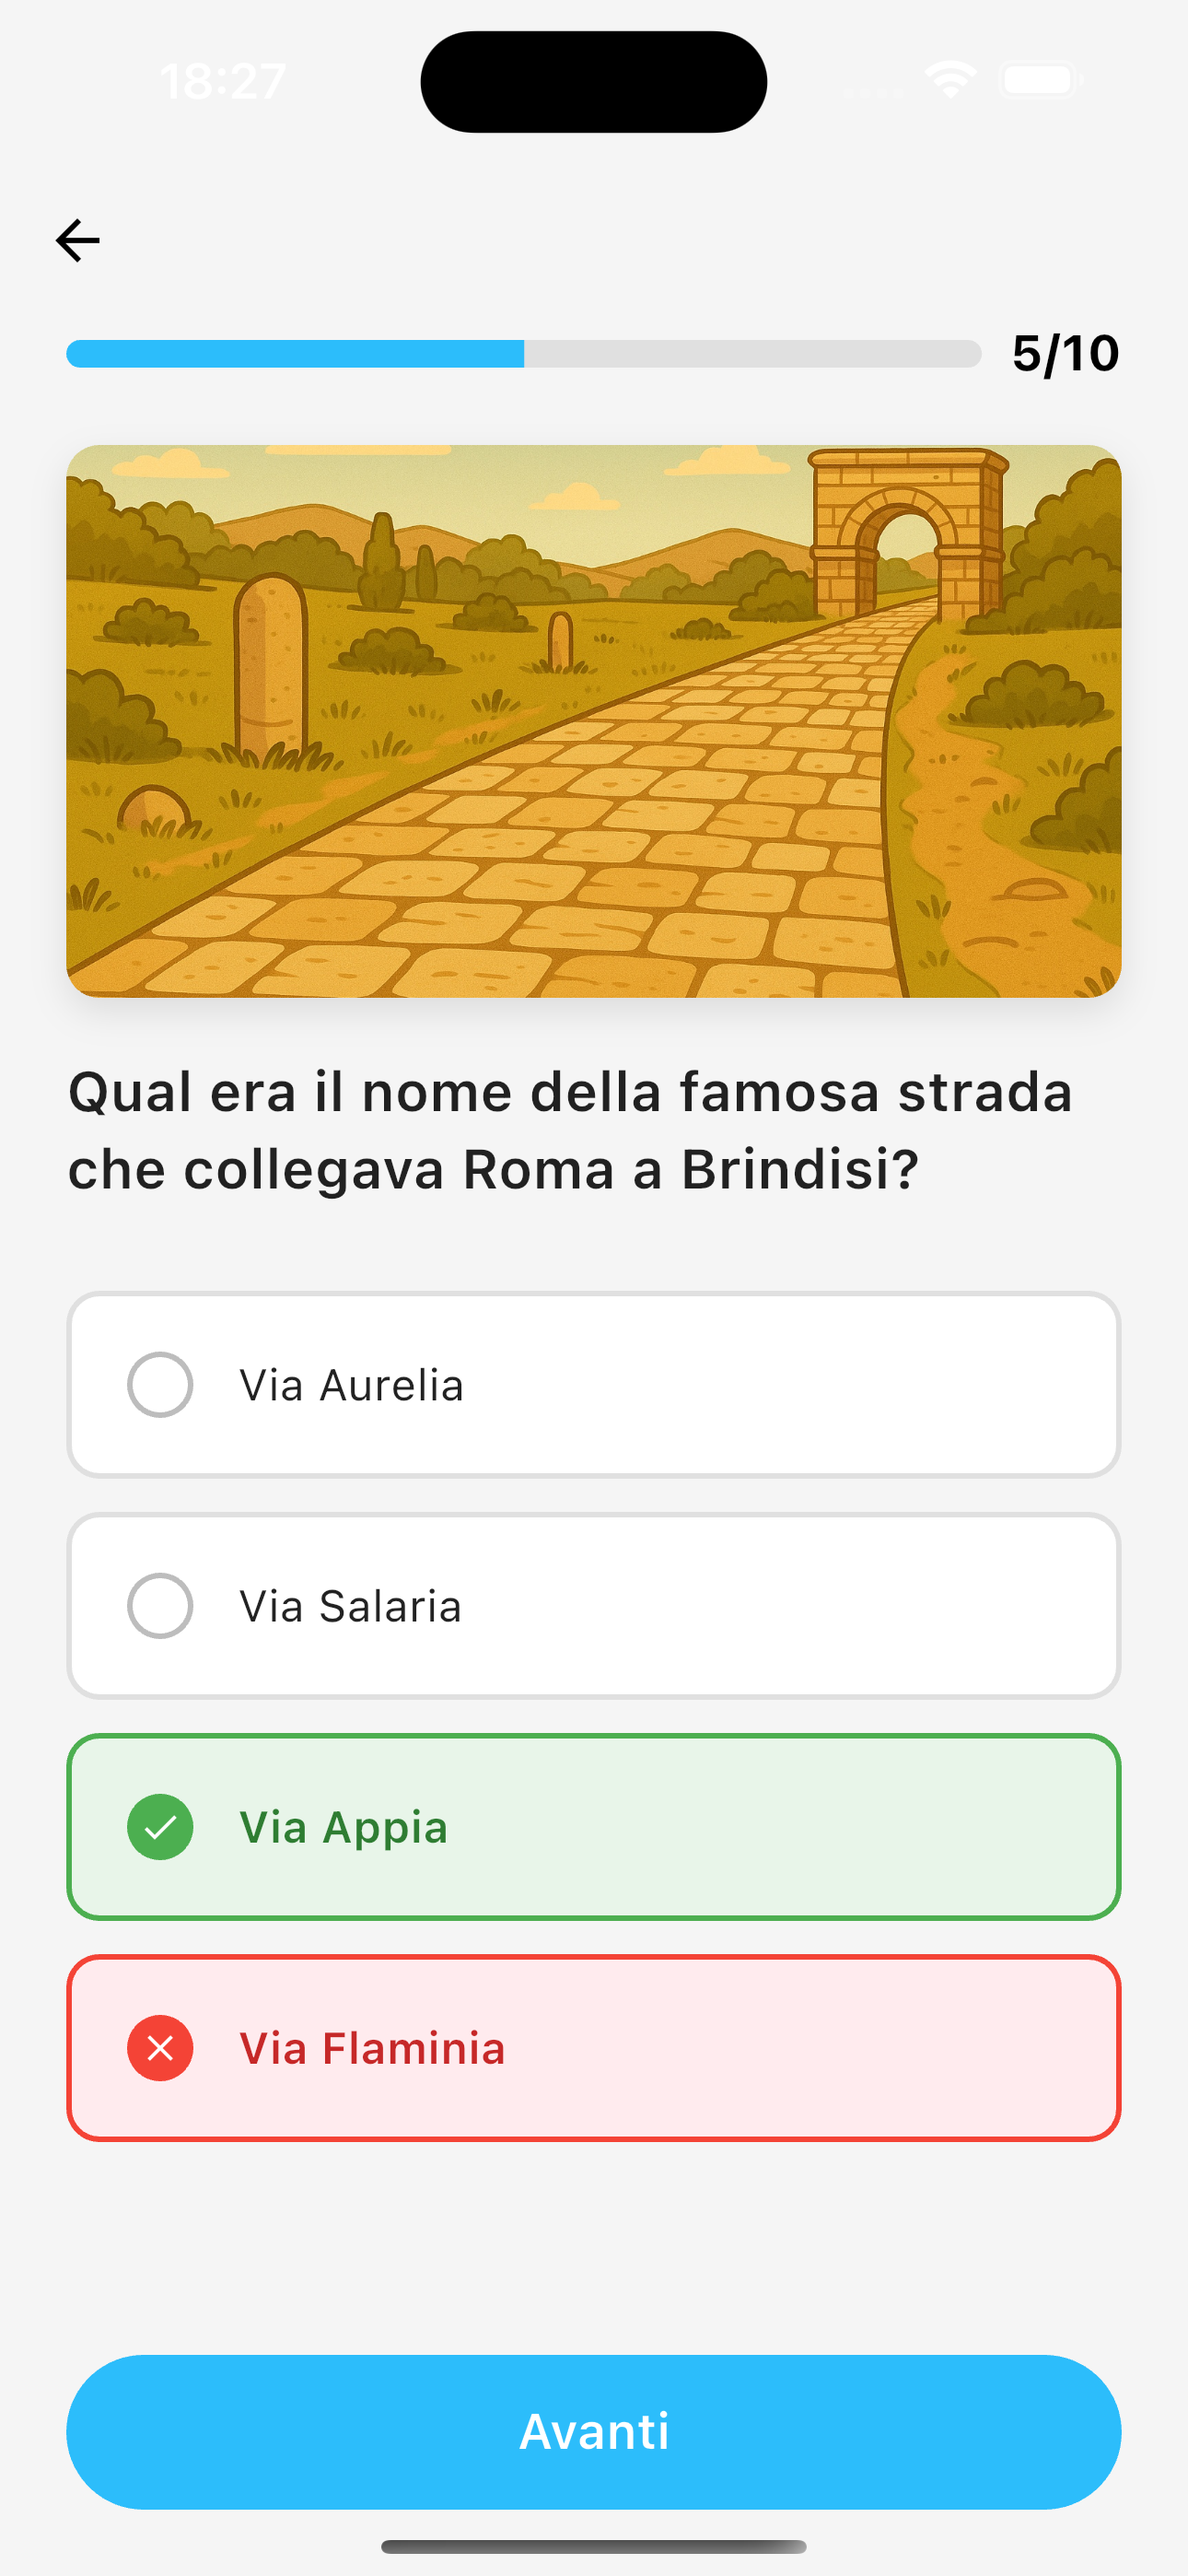
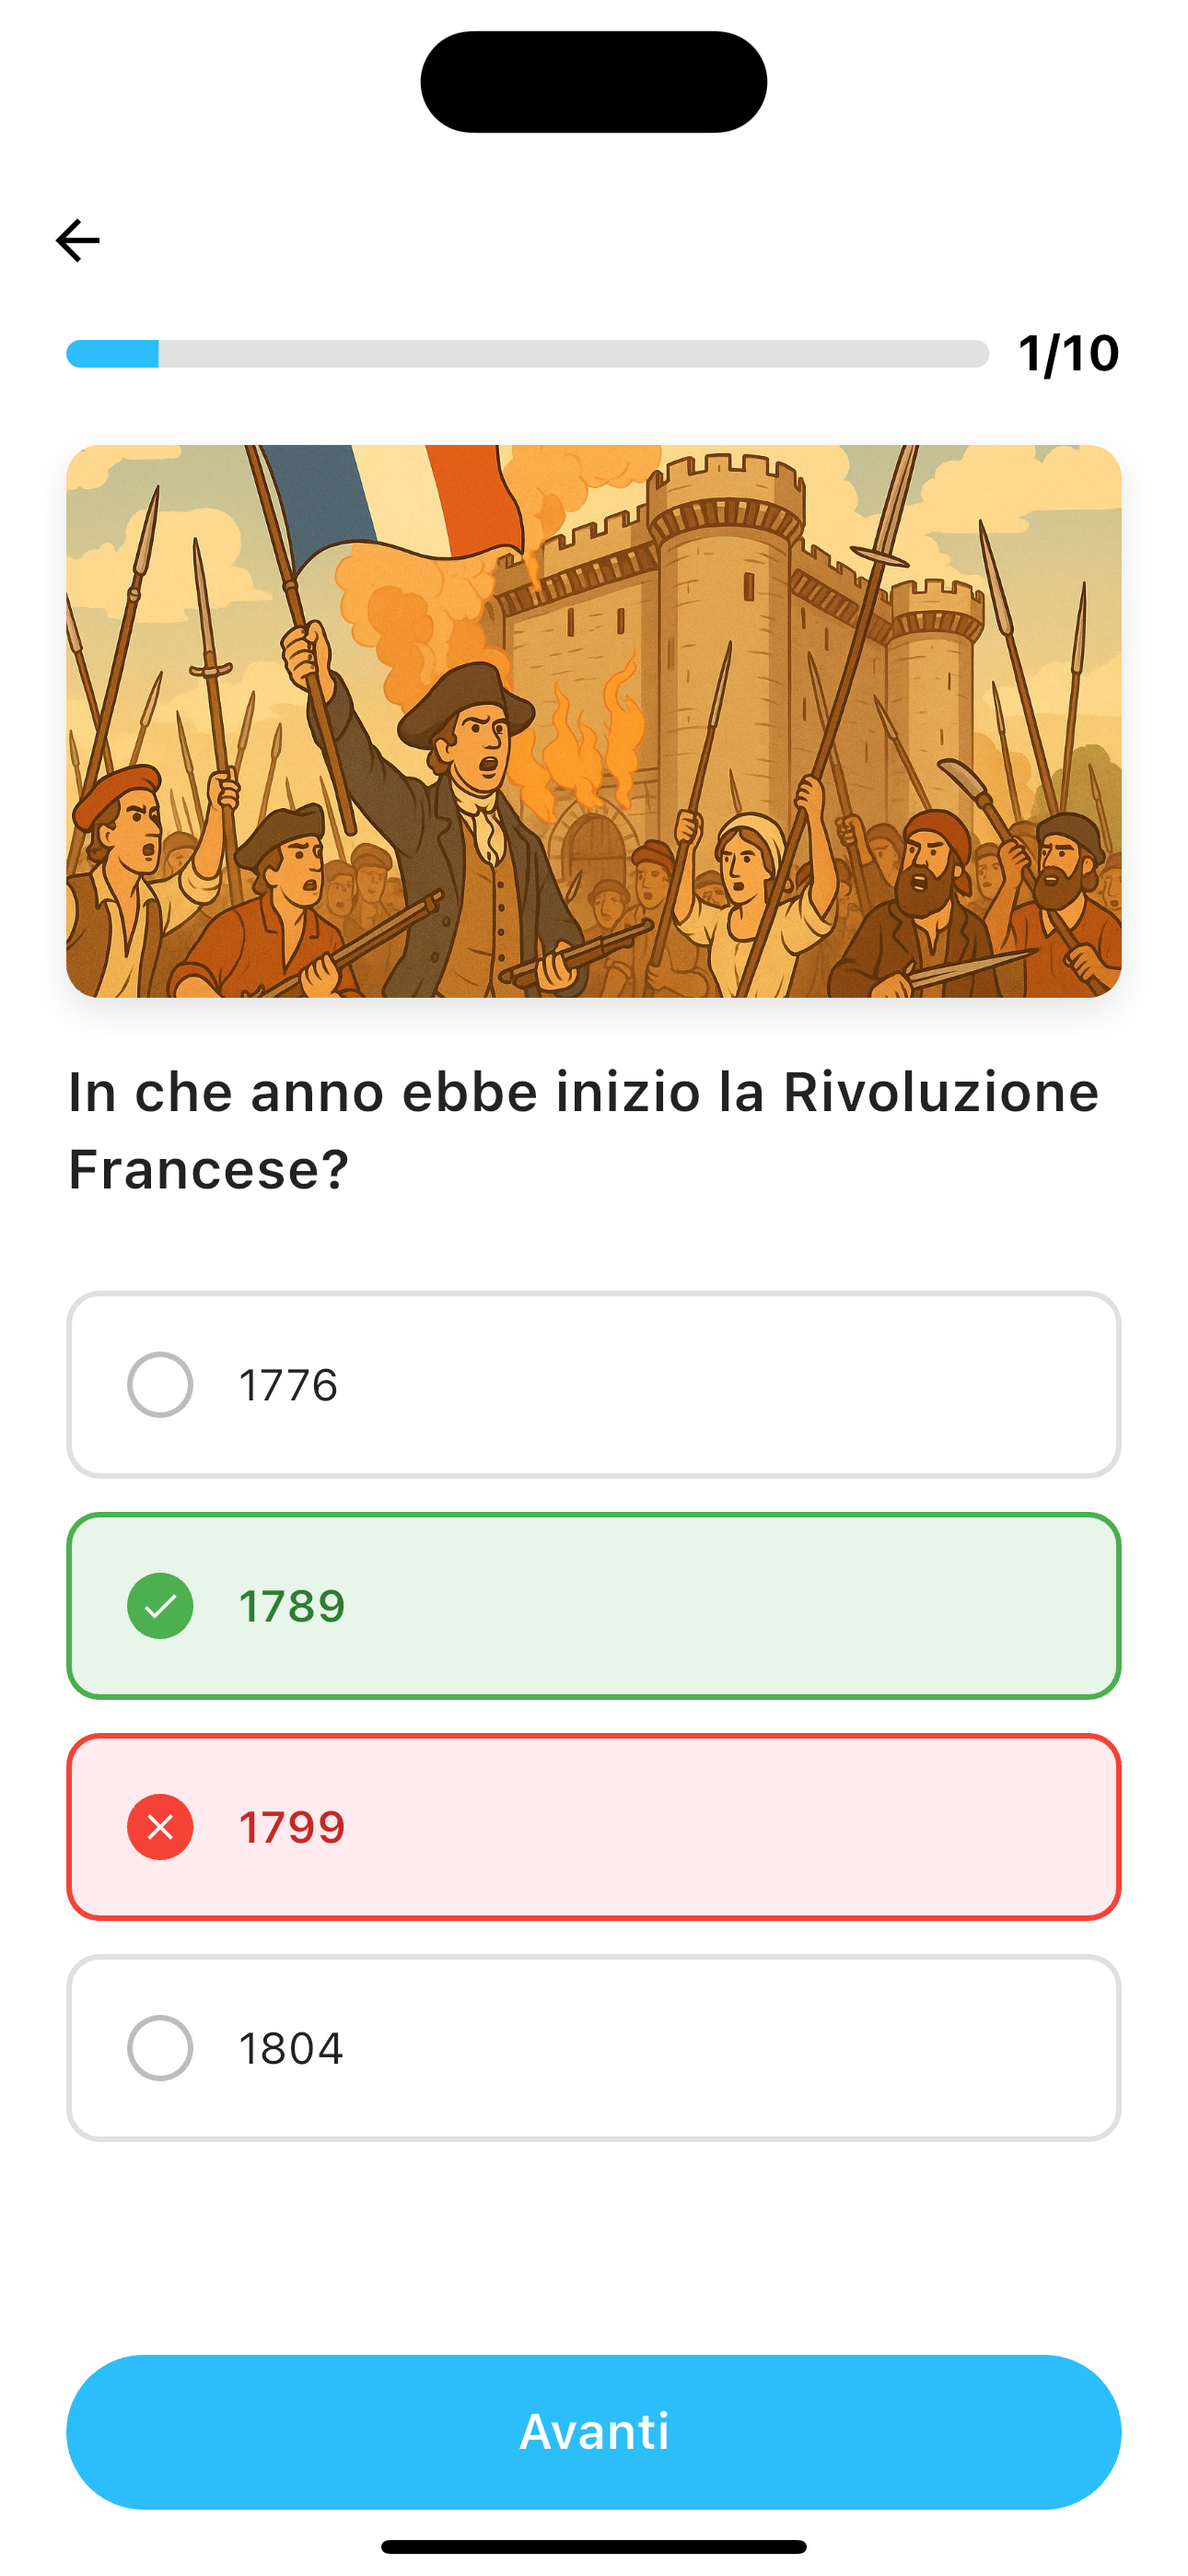
update gif README

diff --git a/implementazione/lib/screens/quiz_screen.dart b/implementazione/lib/screens/quiz_screen.dart
@@ -335,7 +335,7 @@ class _QuizScreenState extends State<QuizScreen> {
     final currentQuestion = widget.questions[currentQuestionIndex];
 
     return Scaffold(
-      backgroundColor: Colors.grey[100],
+      backgroundColor: Colors.white,
       appBar: AppBar(
         backgroundColor: Colors.transparent,
         elevation: 0,

diff --git a/implementazione/lib/screens/quiz_results_screen.dart b/implementazione/lib/screens/quiz_results_screen.dart
@@ -178,7 +178,7 @@ class QuizResultsScreen extends StatelessWidget {
         ),
       ),
       bottomNavigationBar: StudentBottomNavigationBar(
-        currentIndex: 0,
+        currentIndex: -1,
         name: name,
         surname: surname,
         classCode: classCode,

diff --git a/README.md b/README.md
@@ -1,10 +1,10 @@
 # HistorIA
 
+> "La Storia raccontata da chi l’ha vissuta!"
+
 <p align="center">
   <img src="docs/assets/conversation.gif" width="320" />
 </p>
-
-> "La Storia raccontata da chi l’ha vissuta!"
 
 HistorIA è un'applicazione Flutter per Android e iOS progettata per rivoluzionare l'apprendimento della storia attraverso un'interazione esperienziale con personaggi storici virtuali. Gli studenti possono parlare con Giulio Cesare o Napoleone, affrontare quiz coinvolgenti e salvare le loro conversazioni per riflettere o condividerle. L'insegnante può inoltre visualizzare le domande condivise dagli studenti per monitorare l'interesse e il coinvolgimento.
 
@@ -147,7 +147,7 @@ Mantieni uno stile coerente e nomi descrittivi per PR e commit.
 
 - **Università degli Studi di Salerno**
 
-  - Corso: _Interazione Uomo-Macchina_
+  - **Corso**: Interazione Uomo-Macchina
   - **Professoressa**: Giuliana Vitiello
   - **Tutor**: Andrea Antonio Cantone
 
